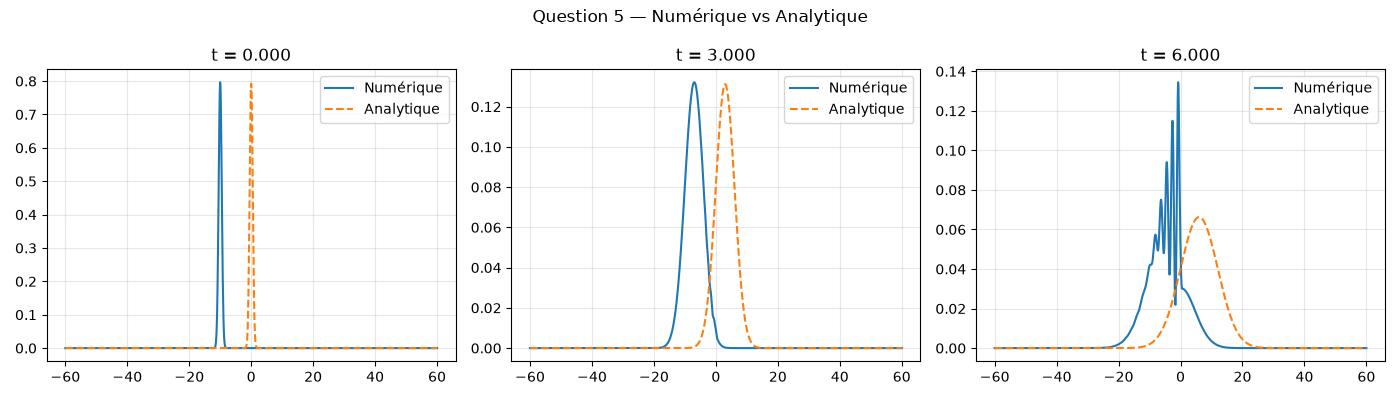
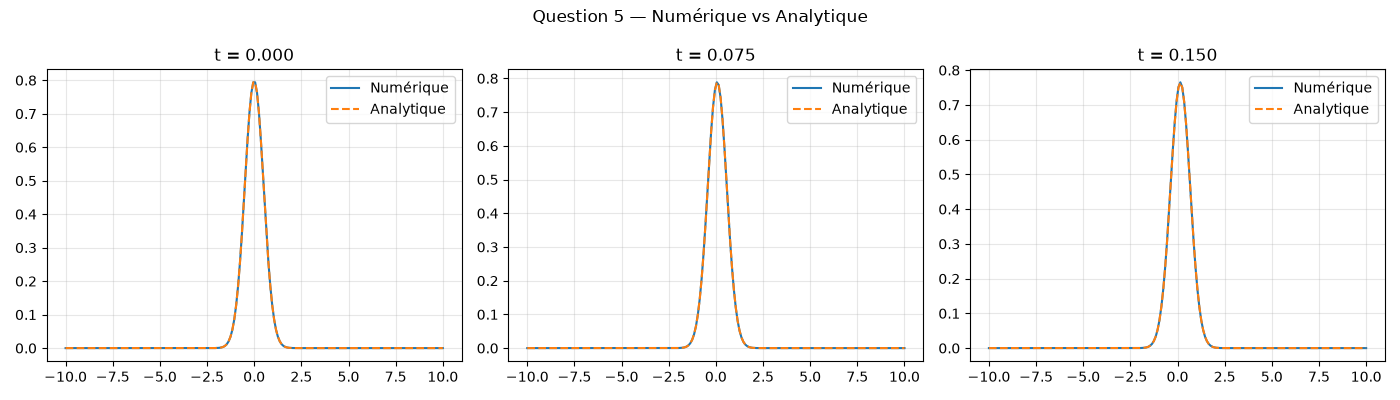
Refactor code structure for improved readability and maintainability. And add the Question 4.d and 4.e

diff --git a/Partie_4.py b/Partie_4.py
@@ -20,29 +20,20 @@ hbar = 1.0
 k0  = 1.0               
 a = 1.0                 
 m = 1.0
-
+x_min, x_max = -60.0, 60.0
+largeur_barriere = a
 
 print(f"Paramètres du paquet d'ondes :")
 print(f" k0 = {k0}, a = {a}")
 
 
+
 # ════════════════════════════════════════════════════════════════
-##                      QUESTION 3 
+##                      QUESTION 1.a 
 # ════════════════════════════════════════════════════════════════
-# Paramètres du paquet d'ondes gaussien initial.
-# Remarque : a contrôle la largeur spatiale du paquet.
-# Plus a est grand, plus le paquet est étalé en espace
-# et localisé en vecteur d'onde (relation d'incertitude).
 
-x_min, x_max = -60.0, 60.0
-x = np.linspace(x_min, x_max, nx)
-t = np.linspace(0, t_max, nt)
 
-dx = x[1] - x[0]
-dt = t[1] - t[0]
-
-print(f"\nEspace : Δx = {dx:.6f}")
-print(f"Temps : Δt = {dt:.6f}")
+V0 = 1.5
 
 def GaussWP(k0, a, x, t, x0=0.0):
     terme = m * a**2 + 2j * hbar * t
@@ -52,84 +43,204 @@ def GaussWP(k0, a, x, t, x0=0.0):
         * np.exp(inv_terme * m * (a**2 * k0 + 2j * (x - x0))**2 / 4) \
         * np.exp(-a**2 * k0**2 / 4) \
         * np.exp(1j * k0 * x0) 
-psi_0 = GaussWP(k0, a, x, t=0,x0=-10.0)
 
-# Tableau 2D
-psi = np.zeros((nx, nt), dtype=complex)
-psi[:, 0] = psi_0
+
+def Crank_Nicolson(V0, t_max, nt, nx, x_min, x_max, k0, a, x0,largeur_barriere):
+    # Méthode de Crank-Nicolson
+    x = np.linspace(x_min, x_max, nx)
+    t = np.linspace(0, t_max, nt)
+
+    dx = x[1] - x[0]
+    dt = t[1] - t[0]
+
+    print(f"\nEspace : Δx = {dx:.6f}")
+    print(f"Temps : Δt = {dt:.6f}")
+    
+    # Vérifier stabilité
+    stability = hbar * dt / (dx**2)
+    print(f"\nCritère de stabilité : {stability:.6f}", end="")
+    if stability < 1:
+        print(" ✓ STABLE")
+    else:
+        print(" ✗ INSTABLE - réduire Δt !")
+
+    # Tableau 2D
+    psi_0 = GaussWP(k0, a, x, t=0,x0=-10.0)
+    psi = np.zeros((nx, nt), dtype=complex)
+    psi[:, 0] = psi_0
+
+    V = np.zeros(nx)
+    V[(x >= -largeur_barriere/2) & (x <= largeur_barriere/2)] = V0  # barrière en x=0
+
+
+    r = 1j * hbar * dt / (4 * m * dx**2)
+    ##  CREATION DE 2 MATRICES AFIN DE CALCULé LES VALEURS N-1 N ET N+1
+    # Contribution du potentiel sur la diagonale
+    s = 1j * dt * V / (2 * hbar) 
+    # Calcul de N+1 avec A
+    A = diags([-r, 1.0 + 2*r + s, -r], [-1, 0, 1], shape=(nx, nx), format='csr') 
+    #Caclul de N et N-1 avec B 
+    B = diags([r, 1.0 - 2*r - s, r], [-1, 0, 1], shape=(nx, nx), format='csr')
+
+    print(f"\nIntégration (Crank-Nicolson)...")
+
+    for n in range(nt - 1):
+        # Calcul de 2 matrices avec l'opérateur @
+        psi[:, n+1] = spsolve(A, B @ psi[:, n]) # Fonction qui résout un systeme linéaire afin de trouvé n+1
+
+        #  Limites aux bords
+        psi[0, n+1] = 0.0
+        psi[-1, n+1] = 0.0
+
+        if n % 100 == 0:
+            norm_current = np.sum(np.abs(psi[:, n+1])**2) * dx
+            #print(f"n={n}: ||Ψ||² = {norm_current:.6f}")
+
+        if (n + 1) % (nt // 5) == 0:
+            print(f"  {(n+1)/nt*100:.0f}% → t = {t[n+1]:.4f}")
+
+    print("✓ Intégration terminée\n")
+    return x,t, psi, dx, dt
+
+
+## Choisir quelle code on veut run pour pas lancer deux code différents
+
+choix = input("Quelle simulation voulez-vous lancer ? (libre / barriere)\n").strip().lower()
+if choix == "libre":
+    # Simulation libre (pour τ0)
+    x, t, psi, dx, dt = Crank_Nicolson(V0=0.0, t_max=t_max, nt=nt, nx=nx,x_min=x_min, x_max=x_max,k0=k0, a=a, x0=-10.0,largeur_barriere=a)
+elif choix == "barriere":
+    # Simulation avec barrière (pour τt)
+    x, t, psi, dx, dt = Crank_Nicolson(V0=1.5, t_max=t_max, nt=nt, nx=nx,x_min=x_min, x_max=x_max,k0=k0, a=a, x0=-10.0,largeur_barriere=a)
+
+# ════════════════════════════════════════════════════════════════
+##                      QUESTION 1.b 
+# ════════════════════════════════════════════════════════════════
+
+def mesurer_tau0(x, t, psi, a):
+    """
+    Mesure le temps que met le maximum de |Ψ|² à parcourir une distance a,
+    à partir de sa position de départ (simulation libre, V0=0).
+    """
+    nt = len(t)
+    position_max = np.zeros(nt)
+    for n in range(nt):
+        idx = np.argmax(np.abs(psi[:, n])**2)
+        position_max[n] = x[idx]
+
+    x_depart = position_max[0]
+    distance_parcourue = position_max - x_depart
+
+    if not np.any(distance_parcourue >= a):
+        return None, x_depart
+
+    idx_tau0 = np.argmax(distance_parcourue >= a)
+    tau0_num = t[idx_tau0]
+    return tau0_num, x_depart
+
+# ════════════════════════════════════════════════════════════════
+##                      QUESTION 1.c 
+# ════════════════════════════════════════════════════════════════
+def mesurer_tau_t(x, t, psi, largeur_barriere):
+    """
+    Mesure le temps que met une fraction significative de |Ψ|² à franchir
+    la barrière, détecté dans la zone transmise (x > largeur_barriere/2).
+    """
+    nt = len(t)
+    zone_transmise = x > (largeur_barriere / 2)
+
+    max_densite_transmise_globale = 0
+    for n in range(nt):
+        densite_transmise = np.abs(psi[zone_transmise, n])**2
+        if np.max(densite_transmise) > max_densite_transmise_globale:
+            max_densite_transmise_globale = np.max(densite_transmise)
+
+    seuil = 0.5 * max_densite_transmise_globale
+
+    tau_t_num = None
+    for n in range(nt):
+        densite_transmise = np.abs(psi[zone_transmise, n])**2
+        if np.max(densite_transmise) > seuil:
+            tau_t_num = t[n]
+            break
+
+    return tau_t_num, max_densite_transmise_globale
+
 
 
 # ════════════════════════════════════════════════════════════════
-##                      QUESTION 4 
+##                      QUESTION 1.d 
 # ════════════════════════════════════════════════════════════════
 
+liste_largeurs = [0.5, 1.0, 1.5]
 
-V0 = 1.5
-largeur_barriere = a
-V = np.zeros(nx)
-V[(x >= -largeur_barriere/2) & (x <= largeur_barriere/2)] = V0  # barrière en x=0
+resultats_tau0 = []
+resultats_taut = []
 
-
-# Vérifier stabilité
-stability = hbar * dt / (dx**2)
-print(f"\nCritère de stabilité : {stability:.6f}", end="")
-if stability < 1:
-    print(" ✓ STABLE")
-else:
-    print(" ✗ INSTABLE - réduire Δt !")
-
-# Méthode de Crank-Nicolson
-
-r = 1j * hbar * dt / (4 * m * dx**2)
-
-##  CREATION DE 2 MATRICES AFIN DE CALCULé LES VALEURS N-1 N ET N+1
-
-# Contribution du potentiel sur la diagonale
-s = 1j * dt * V / (2 * hbar) 
-# Calcul de N+1 avec A
-A = diags([-r, 1.0 + 2*r + s, -r], [-1, 0, 1], shape=(nx, nx), format='csr') 
-#Caclul de N et N-1 avec B 
-B = diags([r, 1.0 - 2*r - s, r], [-1, 0, 1], shape=(nx, nx), format='csr')
-
-print(f"\nIntégration (Crank-Nicolson)...")
-
-for n in range(nt - 1):
-    # Calcul de 2 matrices avec l'opérateur @
-    psi[:, n+1] = spsolve(A, B @ psi[:, n]) # Fonction qui résout un systeme linéaire afin de trouvé n+1
-
-    #  Limites aux bords
-    psi[0, n+1] = 0.0
-    psi[-1, n+1] = 0.0
-
-    if n % 100 == 0:
-        norm_current = np.sum(np.abs(psi[:, n+1])**2) * dx
-        #print(f"n={n}: ||Ψ||² = {norm_current:.6f}")
-
-    if (n + 1) % (nt // 5) == 0:
-        print(f"  {(n+1)/nt*100:.0f}% → t = {t[n+1]:.4f}")
-
-print("✓ Intégration terminée\n")
+for largeur_test in liste_largeurs:
+    ## Affiche les parametres
+    print(f"  Largeur de barrière testée : {largeur_test}")
 
 
+    # Simulation libre (V0=0) pour mesurer τ0
+    x, t, psi_libre, dx, dt = Crank_Nicolson(V0=0.0, t_max=t_max, nt=nt, nx=nx,x_min=x_min, x_max=x_max,k0=k0, a=a, x0=-10.0,largeur_barriere=largeur_test)
+    tau0, x_depart = mesurer_tau0(x, t, psi_libre, largeur_test)
+    
+    print(f"  Largeur de barrière testée : {largeur_test}")
+    
+    # Simulation avec barrière (V0=1.5) pour mesurer τt
+    x, t, psi_barriere, dx, dt = Crank_Nicolson(V0=1.5, t_max=t_max, nt=nt, nx=nx,x_min=x_min, x_max=x_max,k0=k0, a=a, x0=-10.0,largeur_barriere=largeur_test)
+    taut, max_densite = mesurer_tau_t(x, t, psi_barriere, largeur_test)
+
+    resultats_tau0.append(tau0)
+    resultats_taut.append(taut)
+
+    print(f"τ0,num = {tau0}")
+    print(f"τt,num = {taut}")
+
+
+# ════════════════════════════════════════════════════════════════
+##                      QUESTION 1.e 
+# ════════════════════════════════════════════════════════════════
+
+liste_V0 = [0.6, 1.0, 1.5, 2.5, 5.0] 
+largeur_fixe = 1.0
+
+resultats_taut_V0 = []
+
+for V0_test in liste_V0:
+    print(f"\n{'='*60}")
+    print(f"  V0 testé : {V0_test}")
+    print(f"{'='*60}")
+
+    x, t, psi_barriere, dx, dt = Crank_Nicolson(V0=V0_test, t_max=t_max, nt=nt, nx=nx,x_min=x_min, x_max=x_max,k0=k0, a=a, x0=-10.0,largeur_barriere=largeur_fixe)
+    taut, max_densite = mesurer_tau_t(x, t, psi_barriere, largeur_fixe)
+    ratio = max_densite / np.max(np.abs(psi_barriere[:, 0])**2) * 100
+
+    resultats_taut_V0.append(taut)
+    print(f"τt,num = {taut}")
+    print(f"Ratio de transmission = {ratio:.4f}%")
+    ## Le cas ou V0 = 5.0
+    if taut is None:
+        print("⚠️ Seuil jamais atteint - transmission trop faible pour ce V0")
 
 
 
 # VÉRIFICATIONS 
 
-## Verification Energetique
+## Vérification énergétique
 energy = np.zeros(nt)
 for n in range(nt):
-    # Dérivée spatiale via gradient numérique
     dpsi_dx = np.gradient(psi[:, n], dx)
-    # Intégrale de l'énergie cinétique moyenne : ∫ (hbar² / 2m) * |dΨ/dx|² dx
     energy[n] = np.sum((hbar**2 / (2 * m)) * np.abs(dpsi_dx)**2) * dx
+
 
 print("Conservation de l'énergie :")
 print(f"  E(t=0) = {energy[0]:.6f}")
 print(f"  E(t=T) = {energy[-1]:.6f}")
 print(f"  Erreur d'énergie = {abs(energy[-1] - energy[0])/energy[0]*100:.4f}%")
 
-## Vérification de la Norme 
+## Vérification de la norme
 norm = np.array([np.sum(np.abs(psi[:, n])**2) * dx for n in range(nt)])
 print("Conservation de la norme :")
 print(f"  ||Ψ(t=0)||² = {norm[0]:.6f}")
@@ -149,42 +260,23 @@ if norm[-1] > norm[0] * 10:
 
 
 
-# ════════════════════════════════════════════════════════════════
-##                      QUESTION 5 
-# ════════════════════════════════════════════════════════════════
-
-fig, axes = plt.subplots(1, 3, figsize=(14, 4))
-instants = [0, nt//4, nt//2]
-
-for idx, n in enumerate(instants):
-    psi_ana = GaussWP(k0, a, x, t[n])
-    axes[idx].plot(x, np.abs(psi[:, n])**2,label="Numérique")
-    axes[idx].plot(x, np.abs(psi_ana)**2, '--',label="Analytique")
-    axes[idx].set_title(f"t = {t[n]:.3f}")
-    axes[idx].legend()
-    axes[idx].grid(alpha=0.3)
-
-plt.suptitle("Question 5 — Numérique vs Analytique")
-plt.tight_layout()
-plt.savefig("comparaison_q5.png")
-
 
 # ════════════════════════════════════════════════════════════════
-# VISUALISATION
+# VISUALISATION (psi)
 # ════════════════════════════════════════════════════════════════
 
 fig, axes = plt.subplots(2, 2, figsize=(13, 10))
-fig.suptitle("Évolution du paquet d'ondes gaussien", fontsize=14, fontweight='bold')
+fig.suptitle("Évolution du paquet d'ondes libre (V0=0)", fontsize=14, fontweight='bold')
 
-# Plot 1
-axes[0, 0].plot(x, np.abs(psi_0), 'b-', linewidth=2)
-axes[0, 0].fill_between(x, np.abs(psi_0), alpha=0.3)
+# Plot 1 — condition initiale
+axes[0, 0].plot(x, np.abs(psi[:, 0]), 'b-', linewidth=2)
+axes[0, 0].fill_between(x, np.abs(psi[:, 0]), alpha=0.3)
 axes[0, 0].set_title("|Ψ(x, t=0)| - Condition initiale")
 axes[0, 0].set_xlabel("Position x")
 axes[0, 0].set_ylabel("|Ψ|")
 axes[0, 0].grid(alpha=0.3)
 
-# Plot 2
+# Plot 2 — état final
 axes[0, 1].plot(x, np.abs(psi[:, -1]), 'r-', linewidth=2)
 axes[0, 1].fill_between(x, np.abs(psi[:, -1]), alpha=0.3, color='red')
 axes[0, 1].set_title(f"|Ψ(x, t={t_max})| - État final")
@@ -192,16 +284,15 @@ axes[0, 1].set_xlabel("Position x")
 axes[0, 1].set_ylabel("|Ψ|")
 axes[0, 1].grid(alpha=0.3)
 
-# Plot 3 - MODIFIÉ POUR L'ÉNERGIE
+# Plot 3 — énergie
 axes[1, 0].plot(t, energy, 'g-', linewidth=2)
-axes[1, 0].set_title("Énergie totale moyenne <E>")
+axes[1, 0].set_title("Énergie cinétique moyenne <E>")
 axes[1, 0].set_xlabel("Temps t")
 axes[1, 0].set_ylabel("Énergie (U.R.)")
-# Ajustement de l'axe Y pour bien voir que l'énergie est constante (évite une échelle trop aplatie)
 axes[1, 0].set_ylim(energy[0] * 0.9, energy[0] * 1.1)
 axes[1, 0].grid(alpha=0.3)
 
-# Plot 4 - Heatmap (CORRIGÉE)
+# Plot 4 — heatmap
 density = np.abs(psi)**2
 vmax = np.max(density)
 im = axes[1, 1].imshow(density, aspect='auto', origin='lower',
@@ -214,6 +305,5 @@ cbar = plt.colorbar(im, ax=axes[1, 1])
 cbar.set_label("|Ψ|²")
 
 plt.subplots_adjust(left=0.08, right=0.96, top=0.93, bottom=0.08, hspace=0.3, wspace=0.3)
-
-plt.savefig("Puit_Potentiel.png", dpi=150, bbox_inches='tight')
-print("✓ Figure sauvegardée : Puit_Potentiel.png")
+plt.savefig("Particule_Libre.png", dpi=150, bbox_inches='tight')
+print("✓ Figure sauvegardée : Particule_Libre.png")